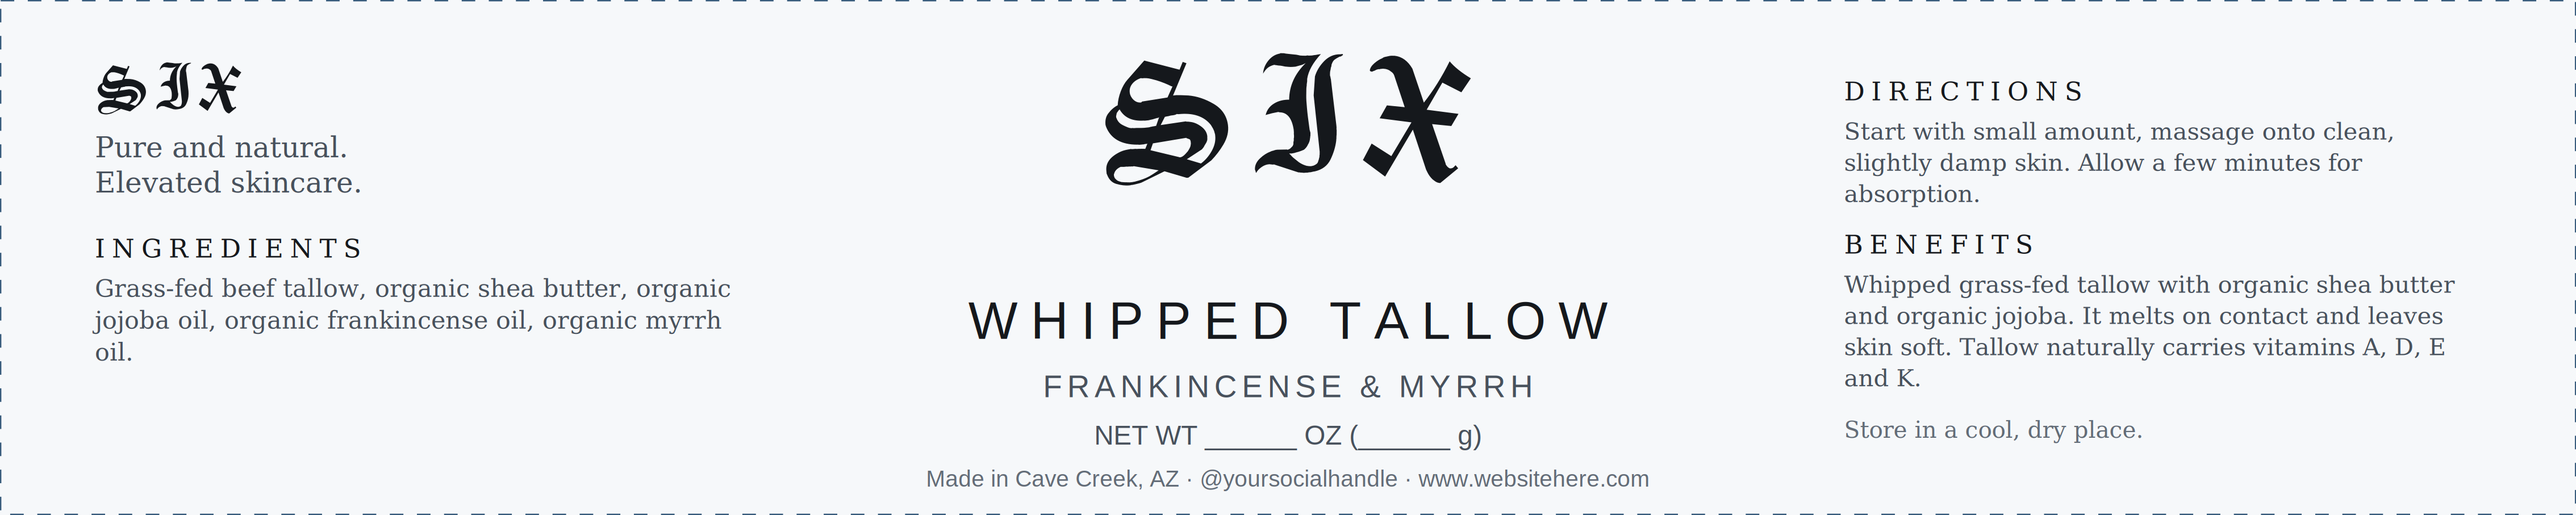
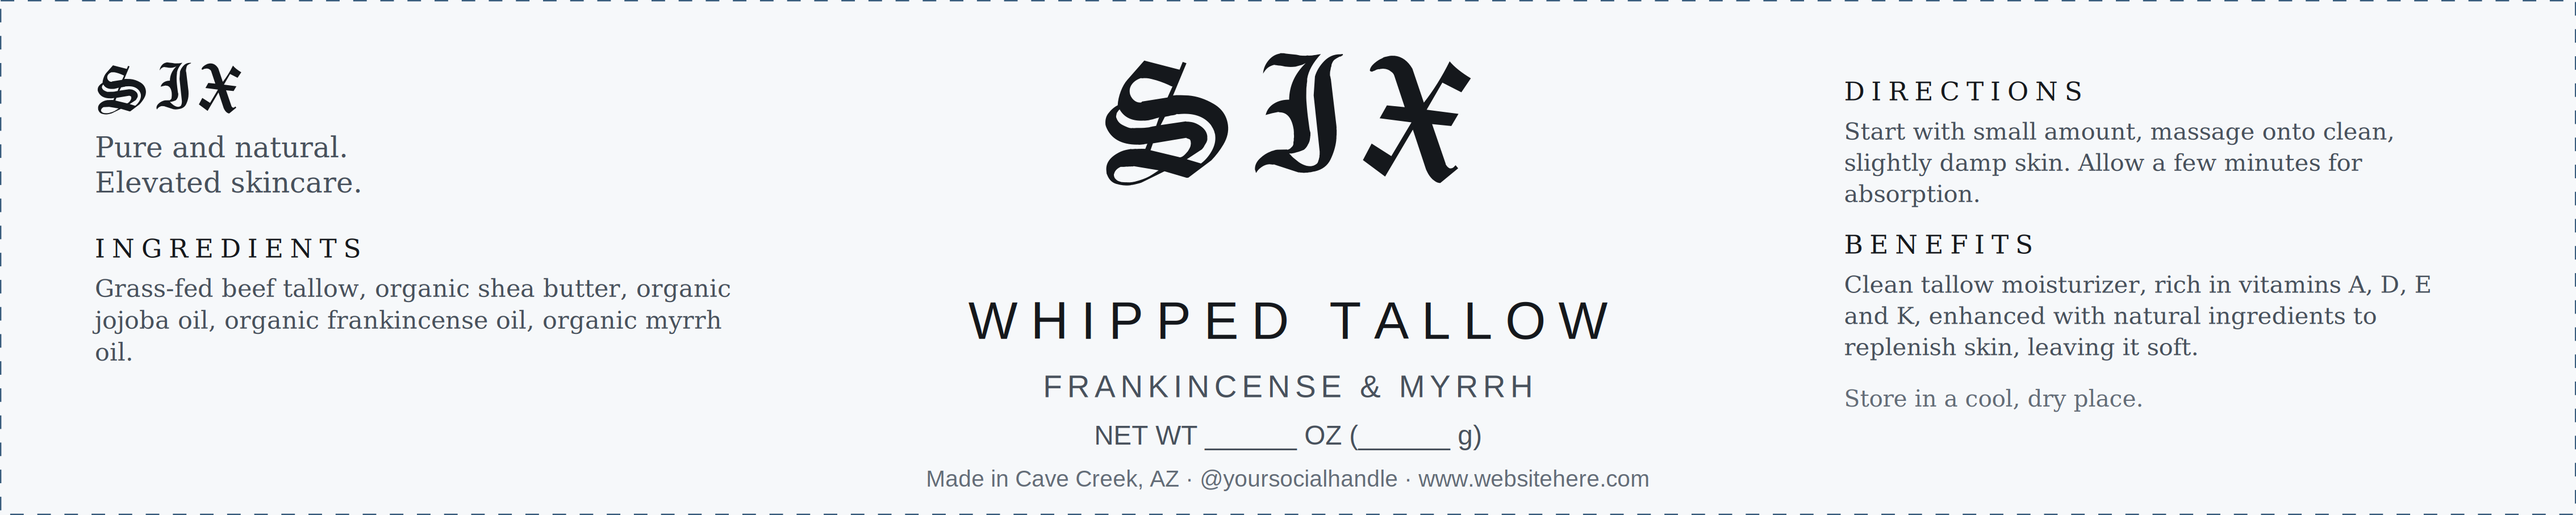
Use the owner's benefits copy, export the wordmark on its own
design/six-wordmark.svg is the SIX mark alone, transparent, at 60mm wide —
outlines rather than live text, so it needs no font to render and can be
scaled to any size without redrawing.

Claude-Session: https://claude.ai/code/session_01TYn4u9H1AxY32yb73P56yk

Changed region(s): [[0.7151, 0.5248, 0.9638, 0.8644]]

diff --git a/scripts/make-labels.py b/scripts/make-labels.py
@@ -83,12 +83,12 @@ DIRECTIONS = (
     "Allow a few minutes for absorption."
 )
 
-# Stands in for the reference label's "BENEFITS" paragraph. What is written
-# here is what the base is and how it feels — not what it does to anybody.
+# Owner's wording. "Replenish skin" is the one phrase here that sits near the
+# cosmetic/drug line; "replenish moisture" would be plainly cosmetic. Raised
+# and kept as written.
 BENEFITS = (
-    "Whipped grass-fed tallow with organic shea butter and organic jojoba. "
-    "It melts on contact and leaves skin soft. Tallow naturally carries "
-    "vitamins A, D, E and K."
+    "Clean tallow moisturizer, rich in vitamins A, D, E and K, enhanced with "
+    "natural ingredients to replenish skin, leaving it soft."
 )
 
 NET_PLACEHOLDER = "NET WT ______ OZ (______ g)"
@@ -456,6 +456,14 @@ def front_label(p, mark, guides, net) -> str:
 
 # ---------------------------------------------------------------------------
 
+def logo_file(mark, width_mm: float = 60.0) -> str:
+    """The wordmark on its own, transparent, for stickers and stamps."""
+    path, vw, vh = mark
+    h = width_mm * vh / vw
+    return svg(round(width_mm, 2), round(h, 2),
+               wordmark_at(width_mm / 2, 0.0, width_mm, path, vw, vh))
+
+
 def main() -> None:
     ap = argparse.ArgumentParser()
     ap.add_argument("--previews", action="store_true",
@@ -487,6 +495,16 @@ def main() -> None:
                 )
 
     gap = CIRCUMFERENCE - FRONT_WIDTH
+    logo = OUT.parent / "six-wordmark.svg"
+    logo.write_text(logo_file(mark))
+    print(f"  {logo.relative_to(ROOT)}")
+    if args.previews:
+        import cairosvg
+
+        cairosvg.svg2png(bytestring=logo_file(mark).encode(),
+                         write_to=str(OUT.parent / "preview-six-wordmark.png"),
+                         scale=20)
+
     print(f"\n  lid    {LID_DIAMETER:g} mm circle   (jar glass is {JAR_DIAMETER:g} mm)")
     print(f"  front  {FRONT_WIDTH:g} x {FRONT_HEIGHT:g} mm   "
           f"({gap:.0f} mm of bare glass at the back)")
